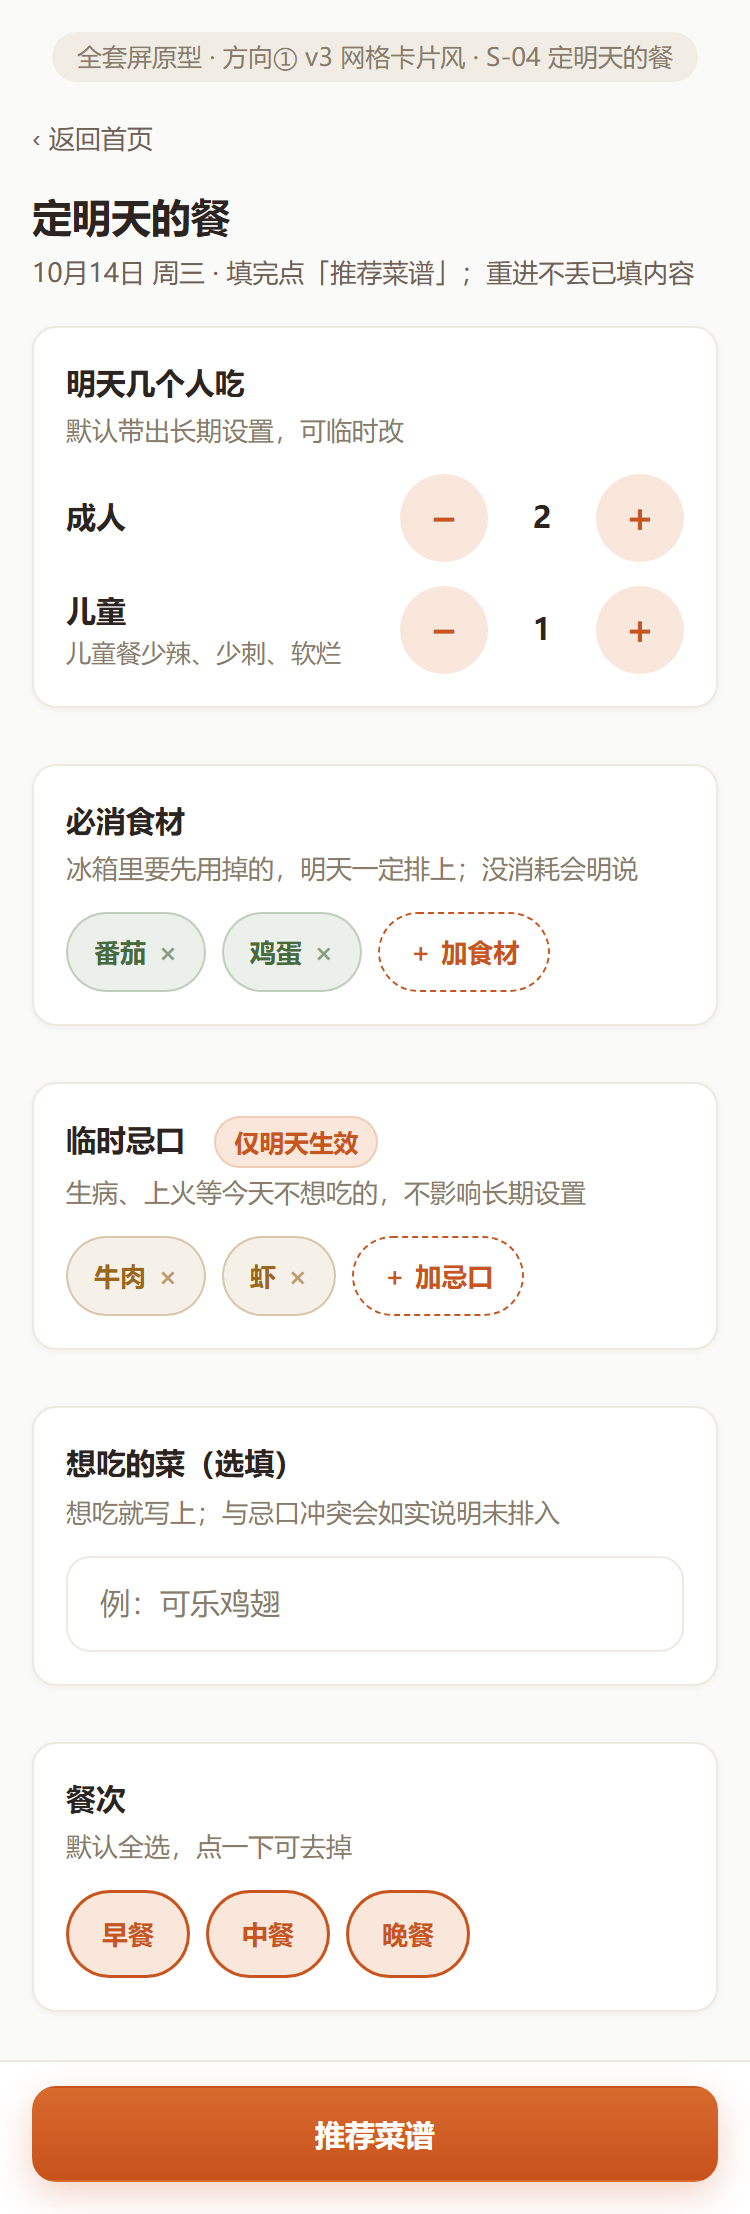
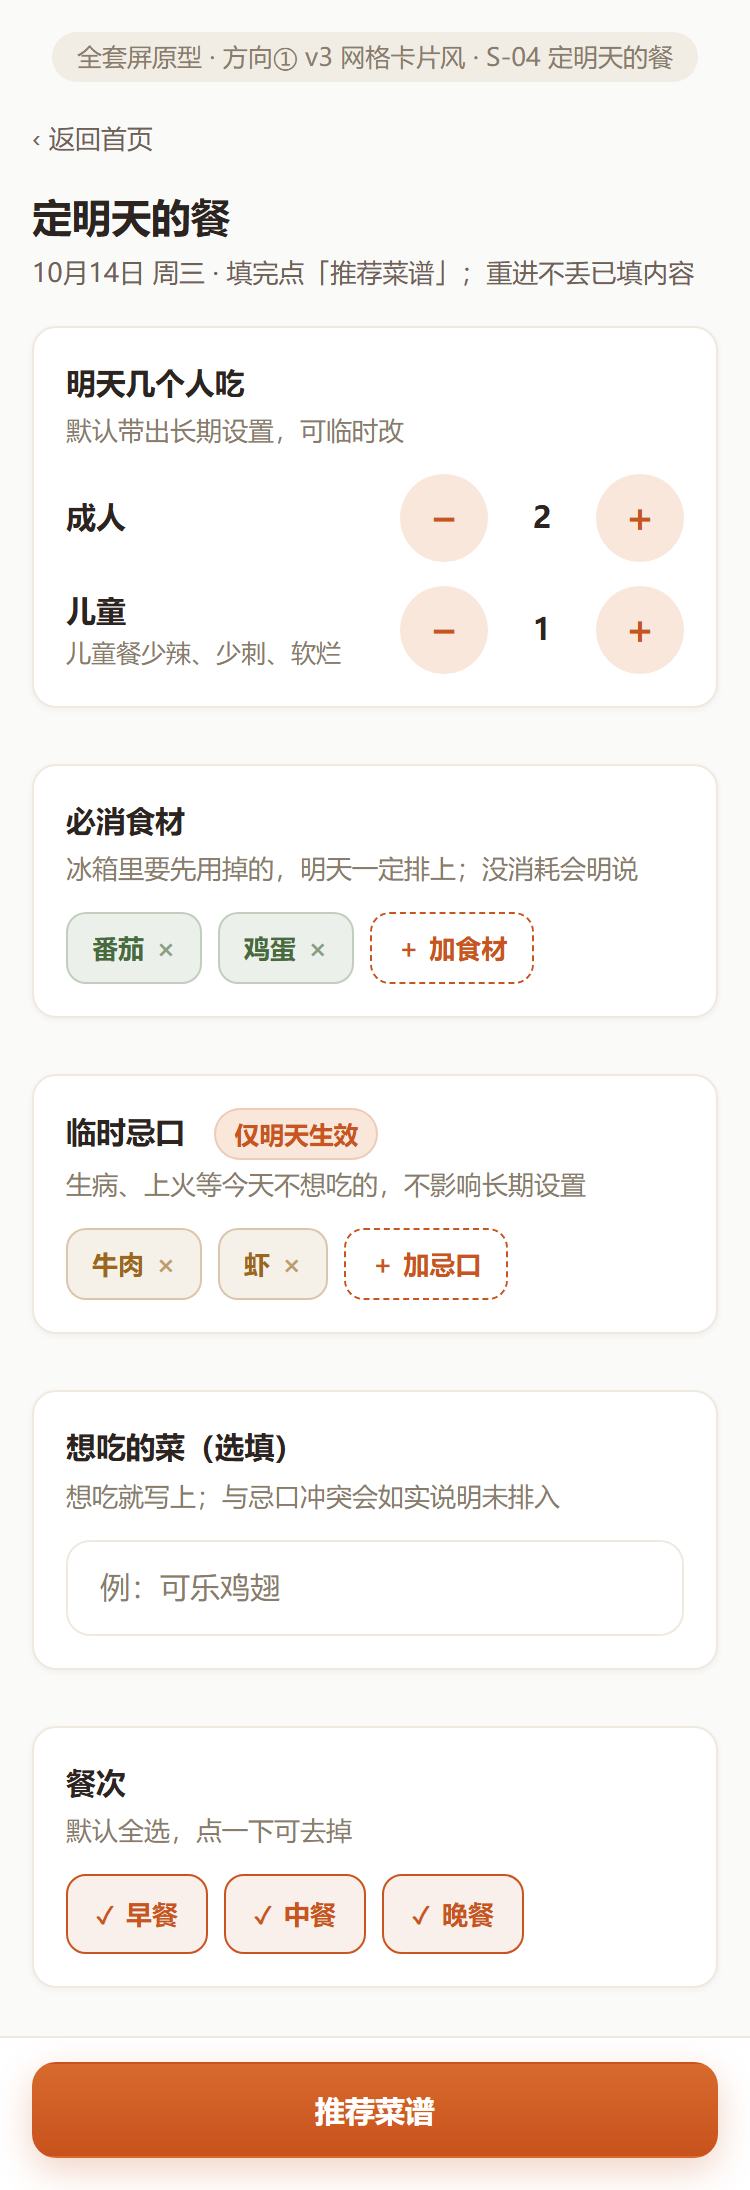
原型第四轮：选择类胶囊改圆角矩形选项块（s04/s12，v3.css?v=5）
用户反馈不喜欢设置页胶囊样式。全站选择类组件统一为 10px 圆角
矩形块：选项块 40px（未选=白底+#E5DED4 细边+灰棕字；选中=主色
9% 浅底+#C8541F 字与同色细边+12px ✓）；已添加标签块 36px 保留
五色语义（硬禁忌红=安全信号不换），× 删除钮保留。步进器、分段
控件、四色状态标签不动。门禁 lint/tsc/test 全绿；s04/s12 已重截。

diff --git a/docs/design/v2/prototypes/style-1/v3/v3.css b/docs/design/v2/prototypes/style-1/v3/v3.css
@@ -8,6 +8,8 @@
    磨砂收敛到只剩 Tabbar（sticky 标题条纯白+hairline、横幅/弹层头实色）；
    「换一道」改文本小按钮、候选行弱化；首页顶部品牌渐变带（全页唯一
    装饰面）；设置页改 iOS 分组列表（sgroup/srow/seg/chips-row）。
+   质感第四轮（2026-10-15）：选择类全圆角胶囊 → 10px 圆角矩形选项块
+   （s04/s12 同一组件；用户反馈不喜欢胶囊样式），详见 .opt/.chip 注释。
    ============================================================ */
 
 /* --- 菜品卡（上图下文，图 4:3） --- */
@@ -93,19 +95,22 @@
 .stepper-sm .step-btn { width: 36px; height: 36px; font-size: 18px; }
 .stepper-sm .step-val { min-width: 22px; font-size: var(--fs-body); font-weight: 600; }
 
-/* --- 标签 chips：半透柔彩底 + 1px 同色细边；「仅明天生效」等警示 chip 保持辨识度 --- */
+/* --- 选择块（第四轮起：全圆角胶囊 → 10px 圆角矩形块，s04/s12 同一组件） ---
+   已添加标签（带 ×）：36px 块，保留五色语义（硬禁忌红=安全信号不换主色） --- */
 .chips { display: flex; flex-wrap: wrap; gap: var(--sp-2); margin-top: var(--sp-3); }
-.chip { display: inline-flex; align-items: center; gap: 6px; min-height: 40px; padding: 0 14px; border-radius: var(--r-pill); background: rgba(71, 107, 60, .10); color: var(--c-ok-ink); font-size: var(--fs-small); font-weight: 600; box-shadow: inset 0 0 0 1px rgba(71, 107, 60, .26); }
+.chip { display: inline-flex; align-items: center; gap: 6px; min-height: 36px; padding: 0 12px; border-radius: 10px; background: rgba(71, 107, 60, .10); border: 1px solid rgba(71, 107, 60, .26); color: var(--c-ok-ink); font-size: var(--fs-small); font-weight: 600; }
 .chip .x { opacity: .6; font-weight: 700; }
-.chip-temp { background: rgba(154, 103, 28, .10); color: var(--c-warn-ink); box-shadow: inset 0 0 0 1px rgba(154, 103, 28, .30); }
-.chip-hard { background: rgba(166, 58, 34, .10); color: var(--c-bad-ink); box-shadow: inset 0 0 0 1px rgba(166, 58, 34, .30); }
-.chip-soft { background: rgba(138, 123, 104, .10); color: var(--c-tag-ink); box-shadow: inset 0 0 0 1px rgba(138, 123, 104, .26); }
-.chip-add { background: transparent; border: 1px dashed var(--c-primary); color: var(--c-primary); box-shadow: none; }
+.chip-temp { background: rgba(154, 103, 28, .10); border-color: rgba(154, 103, 28, .30); color: var(--c-warn-ink); }
+.chip-hard { background: rgba(166, 58, 34, .10); border-color: rgba(166, 58, 34, .30); color: var(--c-bad-ink); }
+.chip-soft { background: rgba(138, 123, 104, .10); border-color: rgba(138, 123, 104, .26); color: var(--c-tag-ink); }
+.chip-add { background: transparent; border: 1px dashed var(--c-primary); color: var(--c-primary); }
 
-/* --- 选项胶囊（单/多选，选中=主色浅底描边，44px 触达） --- */
+/* --- 选项块（单/多选，40px）：未选=白底 + 1px #E5DED4 浅灰边 + 灰棕字；
+   选中=品牌橙 9% 浅底 + #C8541F 字与同色细边 + 文字前 12px 对勾（选中反馈更明确） --- */
 .opts { display: flex; flex-wrap: wrap; gap: var(--sp-2); margin-top: var(--sp-3); }
-.opt { display: inline-flex; align-items: center; justify-content: center; min-height: 44px; padding: 0 18px; border-radius: var(--r-pill); background: var(--c-tag-bg); color: var(--c-ink-2); font-size: var(--fs-small); font-weight: 600; }
-.opt.on { background: var(--c-primary-soft); color: var(--c-primary); box-shadow: inset 0 0 0 1.5px var(--c-primary); }
+.opt { display: inline-flex; align-items: center; justify-content: center; gap: 6px; min-height: 40px; padding: 0 14px; border-radius: 10px; background: var(--c-card); border: 1px solid #E5DED4; color: var(--c-ink-2); font-size: var(--fs-small); font-weight: 600; }
+.opt.on { background: rgba(200, 84, 31, .09); border-color: var(--c-primary); color: var(--c-primary); }
+.opt.on::before { content: "✓"; font-size: 12px; font-weight: 700; line-height: 1; }
 .opt:active, .chip:active, .step-btn:active { opacity: .82; }
 
 /* ============================================================
@@ -129,11 +134,10 @@
 .seg a { flex: 1; display: flex; align-items: center; justify-content: center; min-height: 36px; border-radius: var(--r-1); font-size: var(--fs-small); font-weight: 500; color: var(--c-ink-2); white-space: nowrap; }
 .seg a.on { background: var(--c-card); color: var(--c-ink); font-weight: 600; box-shadow: 0 1px 3px rgba(60, 40, 20, .12); }
 .seg a:active { opacity: .82; }
-/* 单排紧凑 chip 行（不可多行堆叠散落，超出横滑） */
+/* 单排紧凑选择块行（不可多行堆叠散落，超出横滑）；块高/圆角同基础 .opt/.chip */
 .chips-row { display: flex; flex-wrap: nowrap; gap: var(--sp-2); overflow-x: auto; padding: var(--sp-3) var(--sp-4); -webkit-overflow-scrolling: touch; }
 .chips-row::-webkit-scrollbar { height: 0; }
-.chips-row .opt { flex: none; min-height: 40px; padding: 0 12px; }
-.chips-row .chip { flex: none; min-height: 36px; padding: 0 10px; }
+.chips-row .opt, .chips-row .chip { flex: none; }
 
 /* --- 骨架屏（形状照抄网格卡片与横幅，加载中演示） --- */
 .sk { background: var(--c-tag-bg); border-radius: var(--r-1); }

diff --git a/docs/design/v2/prototypes/style-1/v3/b.html b/docs/design/v2/prototypes/style-1/v3/b.html
@@ -5,7 +5,7 @@
 <meta name="viewport" content="width=device-width, initial-scale=1, viewport-fit=cover">
 <title>明天三餐 · 方向① 大图版 B 网格风</title>
 <link rel="stylesheet" href="../style.css?v=4">
-<link rel="stylesheet" href="./v3.css?v=4">
+<link rel="stylesheet" href="./v3.css?v=5">
 </head>
 <body>
 <div class="page">

diff --git a/docs/design/v2/prototypes/style-1/v3/c.html b/docs/design/v2/prototypes/style-1/v3/c.html
@@ -5,7 +5,7 @@
 <meta name="viewport" content="width=device-width, initial-scale=1, viewport-fit=cover">
 <title>采购清单 · 方向① 大图版 B 网格风</title>
 <link rel="stylesheet" href="../style.css?v=4">
-<link rel="stylesheet" href="./v3.css?v=4">
+<link rel="stylesheet" href="./v3.css?v=5">
 </head>
 <body>
 <div class="page">

diff --git a/docs/design/v2/prototypes/style-1/v3/a.html b/docs/design/v2/prototypes/style-1/v3/a.html
@@ -5,7 +5,7 @@
 <meta name="viewport" content="width=device-width, initial-scale=1, viewport-fit=cover">
 <title>首页 · 方向① 大图版 B 网格风</title>
 <link rel="stylesheet" href="../style.css?v=4">
-<link rel="stylesheet" href="./v3.css?v=4">
+<link rel="stylesheet" href="./v3.css?v=5">
 </head>
 <body>
 <div class="page">

diff --git a/docs/design/v2/prototypes/style-1/v3/feedback-sheet.html b/docs/design/v2/prototypes/style-1/v3/feedback-sheet.html
@@ -5,7 +5,7 @@
 <meta name="viewport" content="width=device-width, initial-scale=1, viewport-fit=cover">
 <title>记一笔弹层 · 全套屏原型 S-10</title>
 <link rel="stylesheet" href="../style.css?v=4">
-<link rel="stylesheet" href="./v3.css?v=4">
+<link rel="stylesheet" href="./v3.css?v=5">
 </head>
 <body>
 <div class="page">

diff --git a/docs/design/v2/prototypes/style-1/v3/home-offline.html b/docs/design/v2/prototypes/style-1/v3/home-offline.html
@@ -5,7 +5,7 @@
 <meta name="viewport" content="width=device-width, initial-scale=1, viewport-fit=cover">
 <title>服务未连接 · 全套屏原型 S-13</title>
 <link rel="stylesheet" href="../style.css?v=4">
-<link rel="stylesheet" href="./v3.css?v=4">
+<link rel="stylesheet" href="./v3.css?v=5">
 </head>
 <body>
 <div class="page">

diff --git a/docs/design/v2/prototypes/style-1/v3/meal-setup.html b/docs/design/v2/prototypes/style-1/v3/meal-setup.html
@@ -5,7 +5,7 @@
 <meta name="viewport" content="width=device-width, initial-scale=1, viewport-fit=cover">
 <title>定明天的餐 · 全套屏原型 S-04</title>
 <link rel="stylesheet" href="../style.css?v=4">
-<link rel="stylesheet" href="./v3.css?v=4">
+<link rel="stylesheet" href="./v3.css?v=5">
 </head>
 <body>
 <div class="page">

diff --git a/docs/design/v2/prototypes/style-1/v3/onboarding.html b/docs/design/v2/prototypes/style-1/v3/onboarding.html
@@ -5,7 +5,7 @@
 <meta name="viewport" content="width=device-width, initial-scale=1, viewport-fit=cover">
 <title>冷启动引导 · 全套屏原型 S-02</title>
 <link rel="stylesheet" href="../style.css?v=4">
-<link rel="stylesheet" href="./v3.css?v=4">
+<link rel="stylesheet" href="./v3.css?v=5">
 </head>
 <body>
 <div class="page">

diff --git a/docs/design/v2/prototypes/style-1/v3/dish.html b/docs/design/v2/prototypes/style-1/v3/dish.html
@@ -5,7 +5,7 @@
 <meta name="viewport" content="width=device-width, initial-scale=1, viewport-fit=cover">
 <title>菜品做法 · 全套屏原型 S-09</title>
 <link rel="stylesheet" href="../style.css?v=4">
-<link rel="stylesheet" href="./v3.css?v=4">
+<link rel="stylesheet" href="./v3.css?v=5">
 </head>
 <body>
 <div class="page">

diff --git a/docs/design/v2/prototypes/style-1/v3/empty-hand.html b/docs/design/v2/prototypes/style-1/v3/empty-hand.html
@@ -5,7 +5,7 @@
 <meta name="viewport" content="width=device-width, initial-scale=1, viewport-fit=cover">
 <title>空手场景 · 全套屏原型 S-07</title>
 <link rel="stylesheet" href="../style.css?v=4">
-<link rel="stylesheet" href="./v3.css?v=4">
+<link rel="stylesheet" href="./v3.css?v=5">
 </head>
 <body>
 <div class="page">

diff --git a/docs/design/v2/prototypes/style-1/v3/generating.html b/docs/design/v2/prototypes/style-1/v3/generating.html
@@ -5,7 +5,7 @@
 <meta name="viewport" content="width=device-width, initial-scale=1, viewport-fit=cover">
 <title>生成中 · 全套屏原型 S-05</title>
 <link rel="stylesheet" href="../style.css?v=4">
-<link rel="stylesheet" href="./v3.css?v=4">
+<link rel="stylesheet" href="./v3.css?v=5">
 </head>
 <body>
 <div class="page">

diff --git a/docs/design/v2/prototypes/style-1/v3/login.html b/docs/design/v2/prototypes/style-1/v3/login.html
@@ -5,7 +5,7 @@
 <meta name="viewport" content="width=device-width, initial-scale=1, viewport-fit=cover">
 <title>登录门 · 全套屏原型 S-01</title>
 <link rel="stylesheet" href="../style.css?v=4">
-<link rel="stylesheet" href="./v3.css?v=4">
+<link rel="stylesheet" href="./v3.css?v=5">
 </head>
 <body>
 <div class="page">
